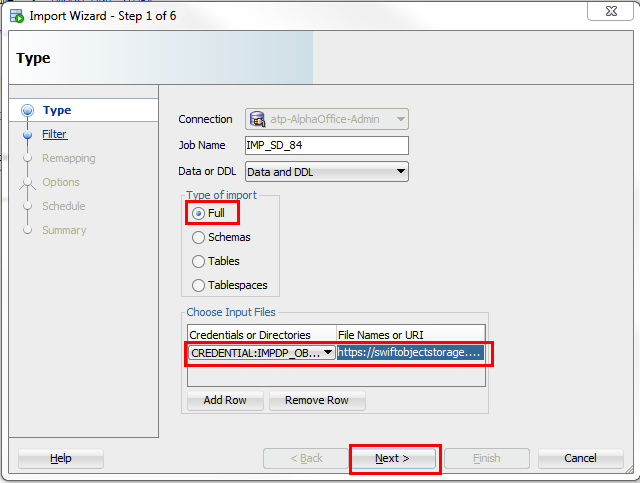
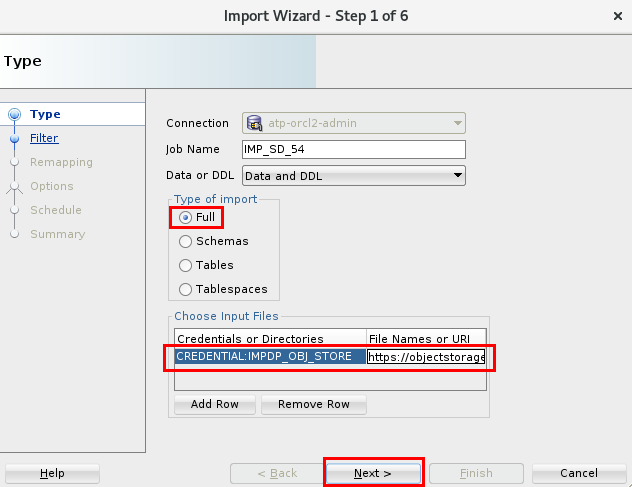
Updates to M2M Lab 100

Changed region(s): [[0.0, 0.0, 1.0, 1.0], [0.7215, 0.2484, 0.7516, 0.2795]]

diff --git a/workshops/monolithic-to-microservice/lab-guides/LabGuide100.md b/workshops/monolithic-to-microservice/lab-guides/LabGuide100.md
@@ -115,15 +115,13 @@ In this lab you will use your Oracle Cloud Trial Account to upload a Data Pump e
 
 	![](images/100/image11a.png)
 
- - Capture the values for **REGION, BUCKET, OBJECT_STORAGE_NAMESPACE, FILENAME** in the text editor from the same screen you uploaded the DMP file.
+- Click the **triple dot** for the newly uploaded dump file and select **View Object Details**,
 
-	![](images/100/image39a.png)
+	![](images/100/image11c.png)
 
-  - Your text editor should look similar to this
+- **Highlight the entire URL_PATH** and while highlighted right-click **Copy**. Save this URL to the text editor (`Should be all on one line`). We'll use it later during the data pump database import. Click the **close** link. 
 
-	![](images/100/image11b.png)
-
-	**Note:** Your values for **REGION** and **OBJECT_STORAGE_NAMESPACE** may/will be different. These values will be used to build out the SWIFT URI shown above.
+	![](images/100/image11d.png)
 
 ### **STEP 5**: Create OCI User
 
@@ -286,15 +284,13 @@ In this lab you will use your Oracle Cloud Trial Account to upload a Data Pump e
 
 	![](images/100/image37.png)
 
-  - On **Step 1** of the **Import Wizard**, select and/or enter the following and click **Next**.  You will use the values you collected in the text editor at the end of **Step 4**.
+  - On **Step 1** of the **Import Wizard**, select and/or enter the following and click **Next**.  You will use the **URL PATH** value you saved in the text editor at the end of **Step 4**.
 
-	**Note:** Your values for **REGION** and **OBJECT_STORAGE_NAMESPACE** may/will be different.
+	**Example:** Your value for **File Names or URI** will be different.
 
 	- **Type of Import:** ```Full```
 	- **Credentials or Directories:** ```IMPDP_OBJ_STORE``` (Created in STEP 10)
-	- **File Names or URI:** ```https://swiftobjectstorage.{REGION}.oraclecloud.com/v1/{OBJECT_STORAGE_NAMESPACE}/{BUCKET}/{FILENAME}``` (Created in STEP 4)
-
-	![](images/100/image11b.png)
+	- **File Names or URI:** ```<PASTE YOUR URL HERE.. example is shown>: https://objectstorage.us-phoenix-1.oraclecloud.com/n/idfp7feyzvbf/b/atpData/o/expdp_alpha121.dmp``` (Saved from STEP 4)
 
 	![](images/100/image38.png)
 

diff --git a/workshops/monolithic-to-microservice/lab-guides/LabGuide100Virtual.md b/workshops/monolithic-to-microservice/lab-guides/LabGuide100Virtual.md
@@ -115,15 +115,13 @@ In this lab you will use your Oracle Cloud Trial Account to upload a Data Pump e
 
 	![](images/100/image11a.png)
 
- - Capture the values for **REGION, BUCKET, OBJECT_STORAGE_NAMESPACE, FILENAME** in the text editor from the same screen you uploaded the DMP file.
+- Click the **triple dot** for the newly uploaded dump file and select **View Object Details**,
 
-	![](images/100/image39a.png)
+	![](images/100/image11c.png)
 
-  - Your text editor should look similar to this
+- **Highlight the entire URL_PATH** and while highlighted right-click **Copy**. Save this URL to the text editor (`Should be all on one line`). We'll use it later during the data pump database import. Click the **close** link. 
 
-	![](images/100/image11b.png)
-
-	**Note:** Your values for **REGION** and **OBJECT_STORAGE_NAMESPACE** may/will be different. These values will be used to build out the SWIFT URI shown above.
+	![](images/100/image11d.png)
 
 ### **STEP 5**: Create OCI User
 
@@ -286,15 +284,13 @@ In this lab you will use your Oracle Cloud Trial Account to upload a Data Pump e
 
 	![](images/100/image37.png)
 
-  - On **Step 1** of the **Import Wizard**, select and/or enter the following and click **Next**.  You will use the values you collected in the text editor at the end of **Step 4**.
+  - On **Step 1** of the **Import Wizard**, select and/or enter the following and click **Next**.  You will use the **URL PATH** value you saved in the text editor at the end of **Step 4**.
 
-	**Note:** Your values for **REGION** and **OBJECT_STORAGE_NAMESPACE** may/will be different.
+	**Example:** Your value for **File Names or URI** will be different.
 
 	- **Type of Import:** ```Full```
 	- **Credentials or Directories:** ```IMPDP_OBJ_STORE``` (Created in STEP 10)
-	- **File Names or URI:** ```https://swiftobjectstorage.{REGION}.oraclecloud.com/v1/{OBJECT_STORAGE_NAMESPACE}/{BUCKET}/{FILENAME}``` (Created in STEP 4)
-
-	![](images/100/image11b.png)
+	- **File Names or URI:** ```<PASTE YOUR URL HERE.. example is shown>: https://objectstorage.us-phoenix-1.oraclecloud.com/n/idfp7feyzvbf/b/atpData/o/expdp_alpha121.dmp``` (Saved from STEP 4)
 
 	![](images/100/image38.png)
 

diff --git a/workshops/monolithic-to-microservice/lab-guides/LabGuide400.md b/workshops/monolithic-to-microservice/lab-guides/LabGuide400.md
@@ -24,6 +24,10 @@ In this lab you will use Oracle Visual Builder which is a cloud-based software d
 
 ### **STEP 1**: Check the creation of the instance from Lab 050
 
+- From the OCI Console open the **My Services Dashboard** by clicking on the **hamburger** menu in the upper left hand side of the page and selecting it.
+
+  ![](images/400/4.PNG)
+
 - From the Dashboard **click the hamburger menu** in the Visual Builder Cloud Service pane, **right-click on Open Service Console** and select **Open link in new tab**.
 
   ![](images/400/5.png)
@@ -41,8 +45,6 @@ In this lab you will use Oracle Visual Builder which is a cloud-based software d
 - On the Welcome page click **+ New Applcation**.
 
   ![](images/400/9.PNG)
-
-
 
 - In the Create Application dialog enter:
 
